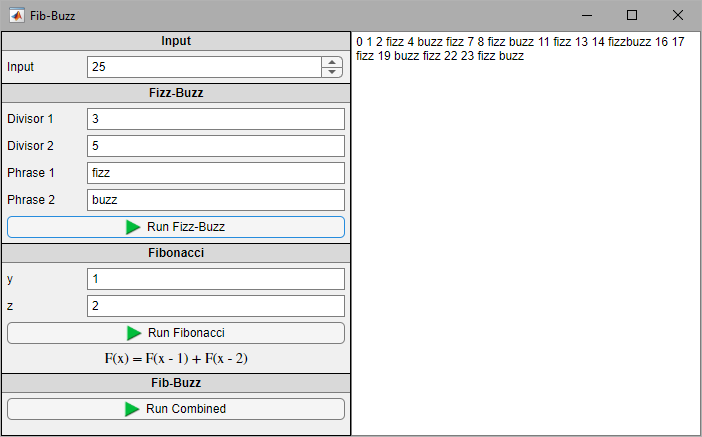
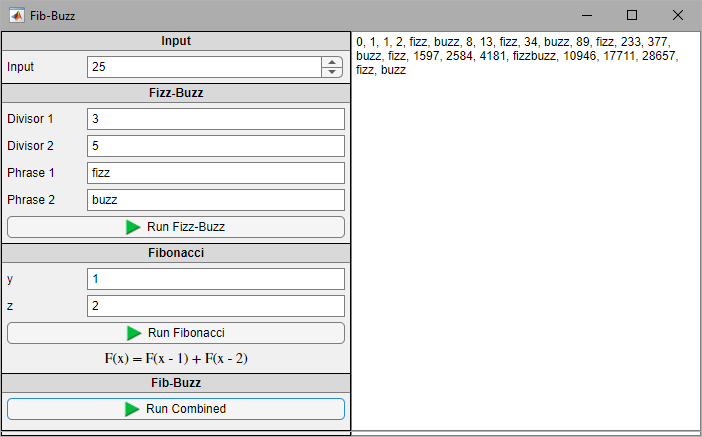
Comma-delimit outputs and update screenshot.

Changed region(s): [[0.0, 0.9817, 1.0, 1.0], [0.5085, 0.0892, 0.9872, 0.1785]]

diff --git a/MapFibBuzzCallback.m b/MapFibBuzzCallback.m
@@ -66,7 +66,7 @@ function Callback_Run(app, event)
             z = str2double(GetValue(app, app.Field_Z));
 
             sequence     = Fibonacci(input, y, z);
-            resultString = strtrim(sprintf('%d ', sequence));
+            resultString = regexprep(sprintf('%d, ', sequence), ', $', '');
         else
             return; % Invalid inputs.
         end

diff --git a/FizzBuzz.m b/FizzBuzz.m
@@ -58,7 +58,7 @@ function resultString = FizzBuzz(input, divisor1, divisor2, phrase1, phrase2)
         end
     end
 
-    resultString = strjoin(processedValues, ' ');
+    resultString = strjoin(processedValues, ', ');
 end
 
 % -------------------------------------------------------------------------------------------------------------------- %
